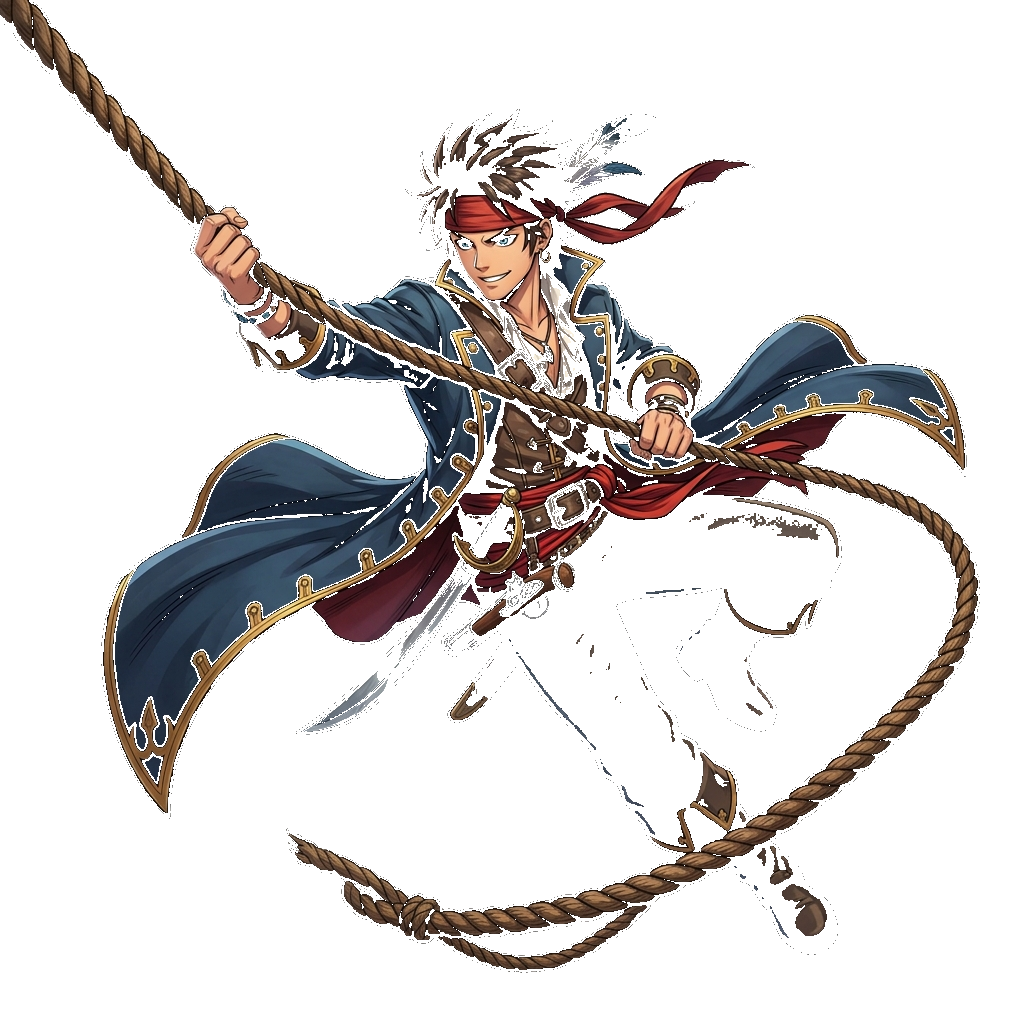
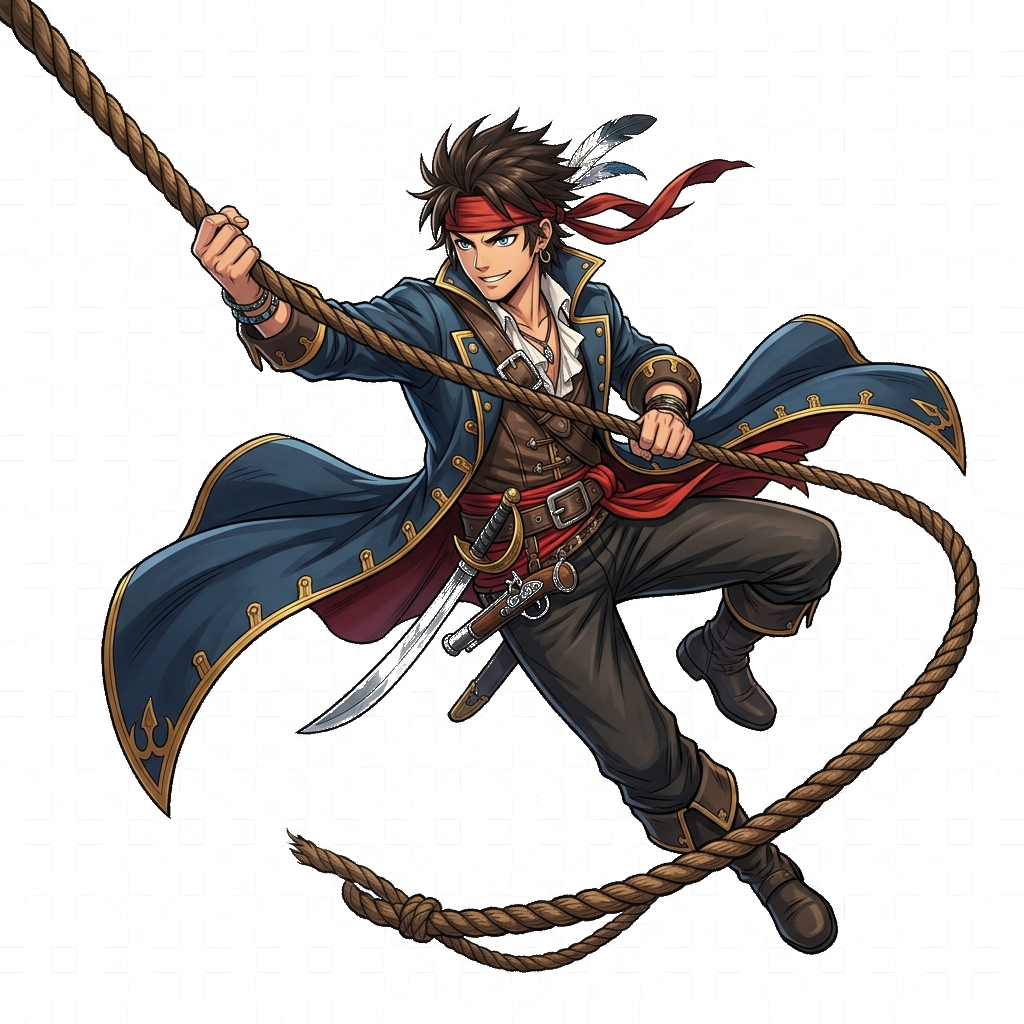
fix: preserve all object details in cutouts, enlarge hero pirate, anchor diagonal rope from corner (0,0) to corner (1000,1000) on all screen sizes

diff --git a/src/components/Hero.jsx b/src/components/Hero.jsx
@@ -32,8 +32,8 @@ const Hero = () => {
       // Swaying swinging motion for pirate hero on rope across diagonal
       if (pirateHeroRef.current) {
         gsap.to(pirateHeroRef.current, {
-          rotate: 4,
-          y: -15,
+          rotate: 3,
+          y: -12,
           duration: 2.5,
           repeat: -1,
           yoyo: true,
@@ -51,7 +51,7 @@ const Hero = () => {
       className="relative w-full min-h-screen overflow-hidden bg-pirate-bg flex flex-col justify-between"
     >
       {/* ── 1. BACKGROUND: Anime Ocean Island Image ── */}
-      <div className="absolute inset-0 z-0 opacity-45 mix-blend-multiply pointer-events-none">
+      <div className="absolute inset-0 z-0 opacity-40 mix-blend-multiply pointer-events-none">
         <img
           src={animeOceanIslandImg}
           alt="Anime Ocean Island Background"
@@ -59,11 +59,11 @@ const Hero = () => {
         />
       </div>
 
-      {/* Soft Sky Gradient Overlay to maintain sky theme */}
+      {/* Soft Sky Gradient Overlay */}
       <div className="absolute inset-0 z-0 bg-gradient-to-b from-pirate-bg/60 via-transparent to-pirate-bg/80 pointer-events-none" />
 
-      {/* ── 2. MIDDLE LAYER: Pirate Ship with Crew sailing on Ocean ── */}
-      <div className="absolute bottom-10 right-4 sm:right-16 md:right-24 z-10 w-[280px] sm:w-[420px] md:w-[520px] pointer-events-none filter drop-shadow-[0_15px_25px_rgba(0,0,0,0.4)]">
+      {/* ── 2. MIDDLE LAYER: Pirate Ship with Crew (Full Details Preserved) ── */}
+      <div className="absolute bottom-8 right-2 sm:right-12 md:right-20 z-10 w-[300px] sm:w-[460px] md:w-[580px] pointer-events-none filter drop-shadow-[0_15px_25px_rgba(0,0,0,0.4)]">
         <img
           src={pirateShipCrewImg}
           alt="Pirate Ship with Crew"
@@ -71,38 +71,38 @@ const Hero = () => {
         />
       </div>
 
-      {/* ── 3. TOP FOREGROUND: Diagonal Rigging Rope stretched from Corner to Corner ── */}
+      {/* ── 3. TOP FOREGROUND: Corner-to-Corner Diagonal Rigging Rope (Touches Top-Left & Bottom-Right Corners on All Screen Sizes) ── */}
       <svg
-        className="absolute inset-0 w-full h-full z-20 pointer-events-none"
+        className="absolute inset-0 w-full h-full z-20 pointer-events-none overflow-visible"
         viewBox="0 0 1000 1000"
         preserveAspectRatio="none"
       >
-        {/* Thick Main Diagonal Rigging Rope */}
+        {/* Main Thick Braided Rigging Rope stretching exactly from (0,0) to (1000,1000) */}
         <path
           d="M 0 0 C 350 250, 650 750, 1000 1000"
           fill="none"
-          stroke="#451a03"
-          strokeWidth="12"
-          strokeLinecap="round"
+          stroke="#381400"
+          strokeWidth="16"
+          strokeLinecap="square"
         />
         <path
           d="M 0 0 C 350 250, 650 750, 1000 1000"
           fill="none"
           stroke="#92400e"
-          strokeWidth="5"
-          strokeDasharray="16 8"
-          strokeLinecap="round"
+          strokeWidth="7"
+          strokeDasharray="20 10"
+          strokeLinecap="square"
         />
       </svg>
 
-      {/* ── 4. TOP FOREGROUND: Handsome Pirate Hero Swinging on Rope ── */}
+      {/* ── 4. TOP FOREGROUND: Large Handsome Pirate Hero Swinging directly on the Diagonal Rope ── */}
       <div
         ref={pirateHeroRef}
-        className="absolute top-16 sm:top-20 right-6 sm:right-28 md:right-44 z-30 w-[240px] sm:w-[380px] md:w-[460px] pointer-events-none filter drop-shadow-[0_20px_35px_rgba(0,0,0,0.45)]"
+        className="absolute top-10 sm:top-14 right-2 sm:right-12 md:right-28 z-40 w-[320px] sm:w-[480px] md:w-[600px] pointer-events-none filter drop-shadow-[0_25px_40px_rgba(0,0,0,0.5)]"
       >
         <img
           src={handsomePirateRopeImg}
-          alt="Handsome Pirate Hero Holding Rope"
+          alt="Handsome Pirate Hero Swinging on Rope"
           className="w-full h-auto object-contain"
         />
       </div>
@@ -110,7 +110,7 @@ const Hero = () => {
       {/* Navbar */}
       <Navbar ref={navbarRef} />
 
-      {/* Hero Main Content (Left Aligned) */}
+      {/* ── 5. HERO MAIN CONTENT: Positioned BELOW the Swinging Pirate Rope (z-30) ── */}
       <HeroContent
         refs={{
           subtitle: subtitleRef,
